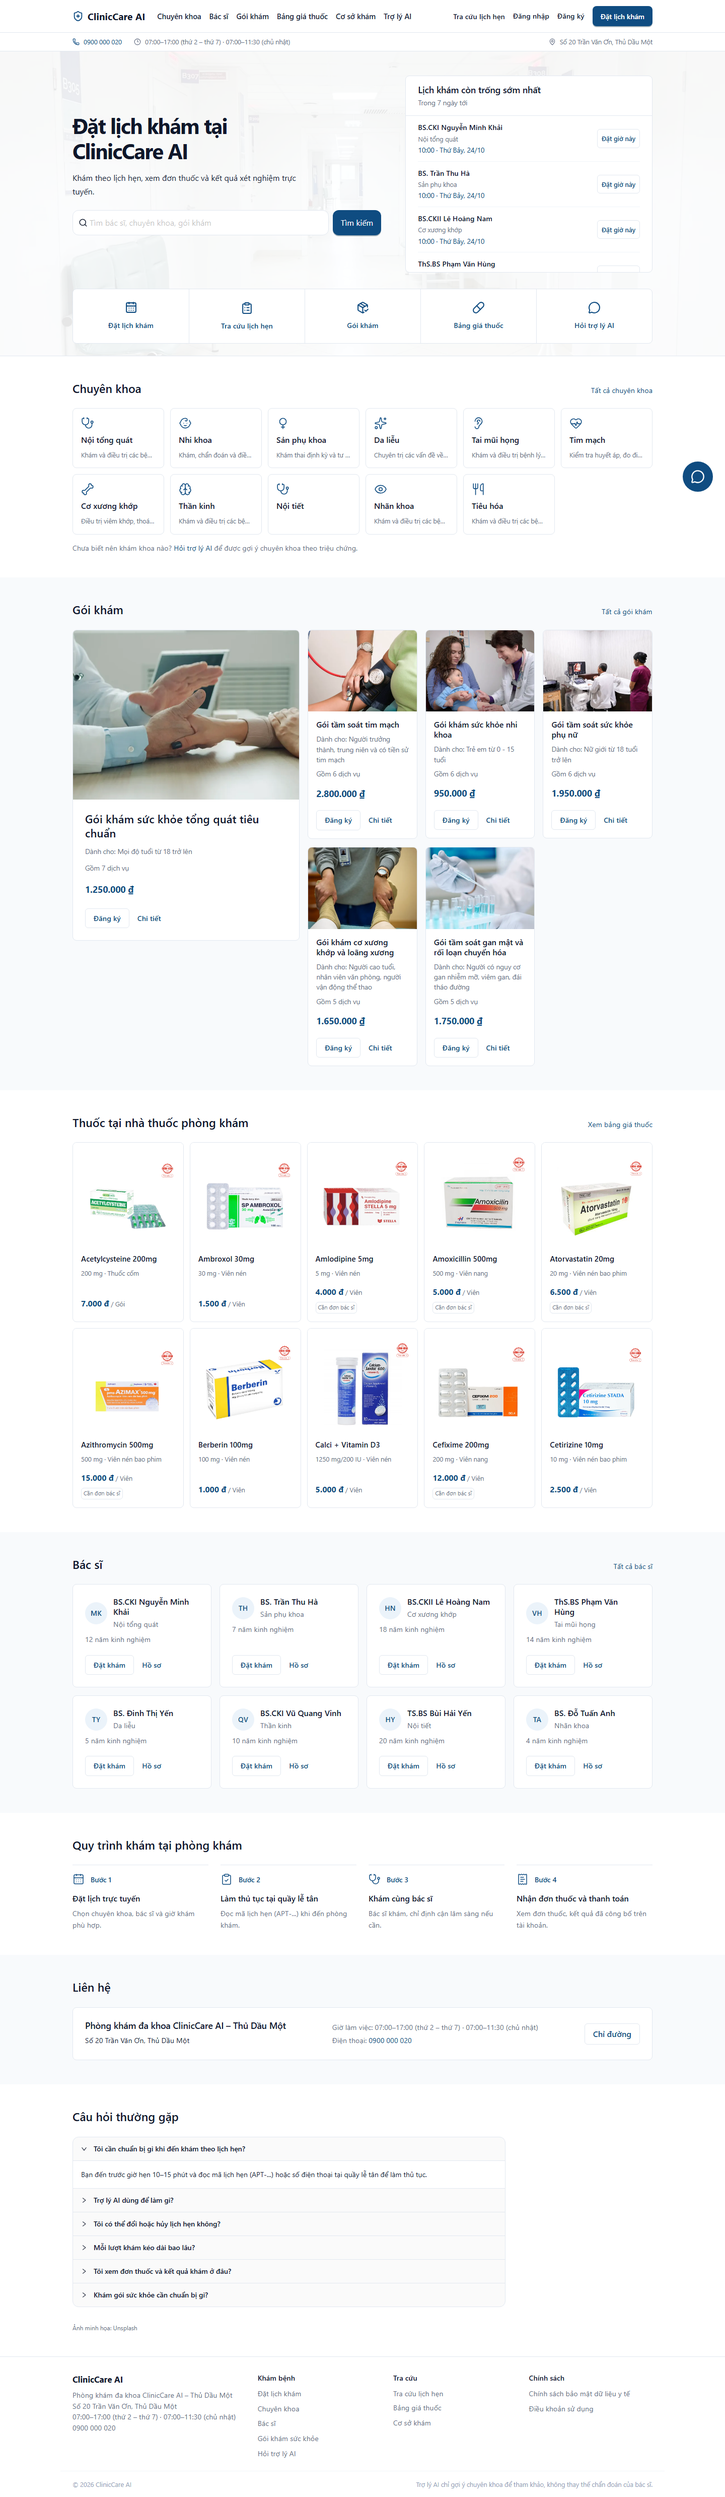
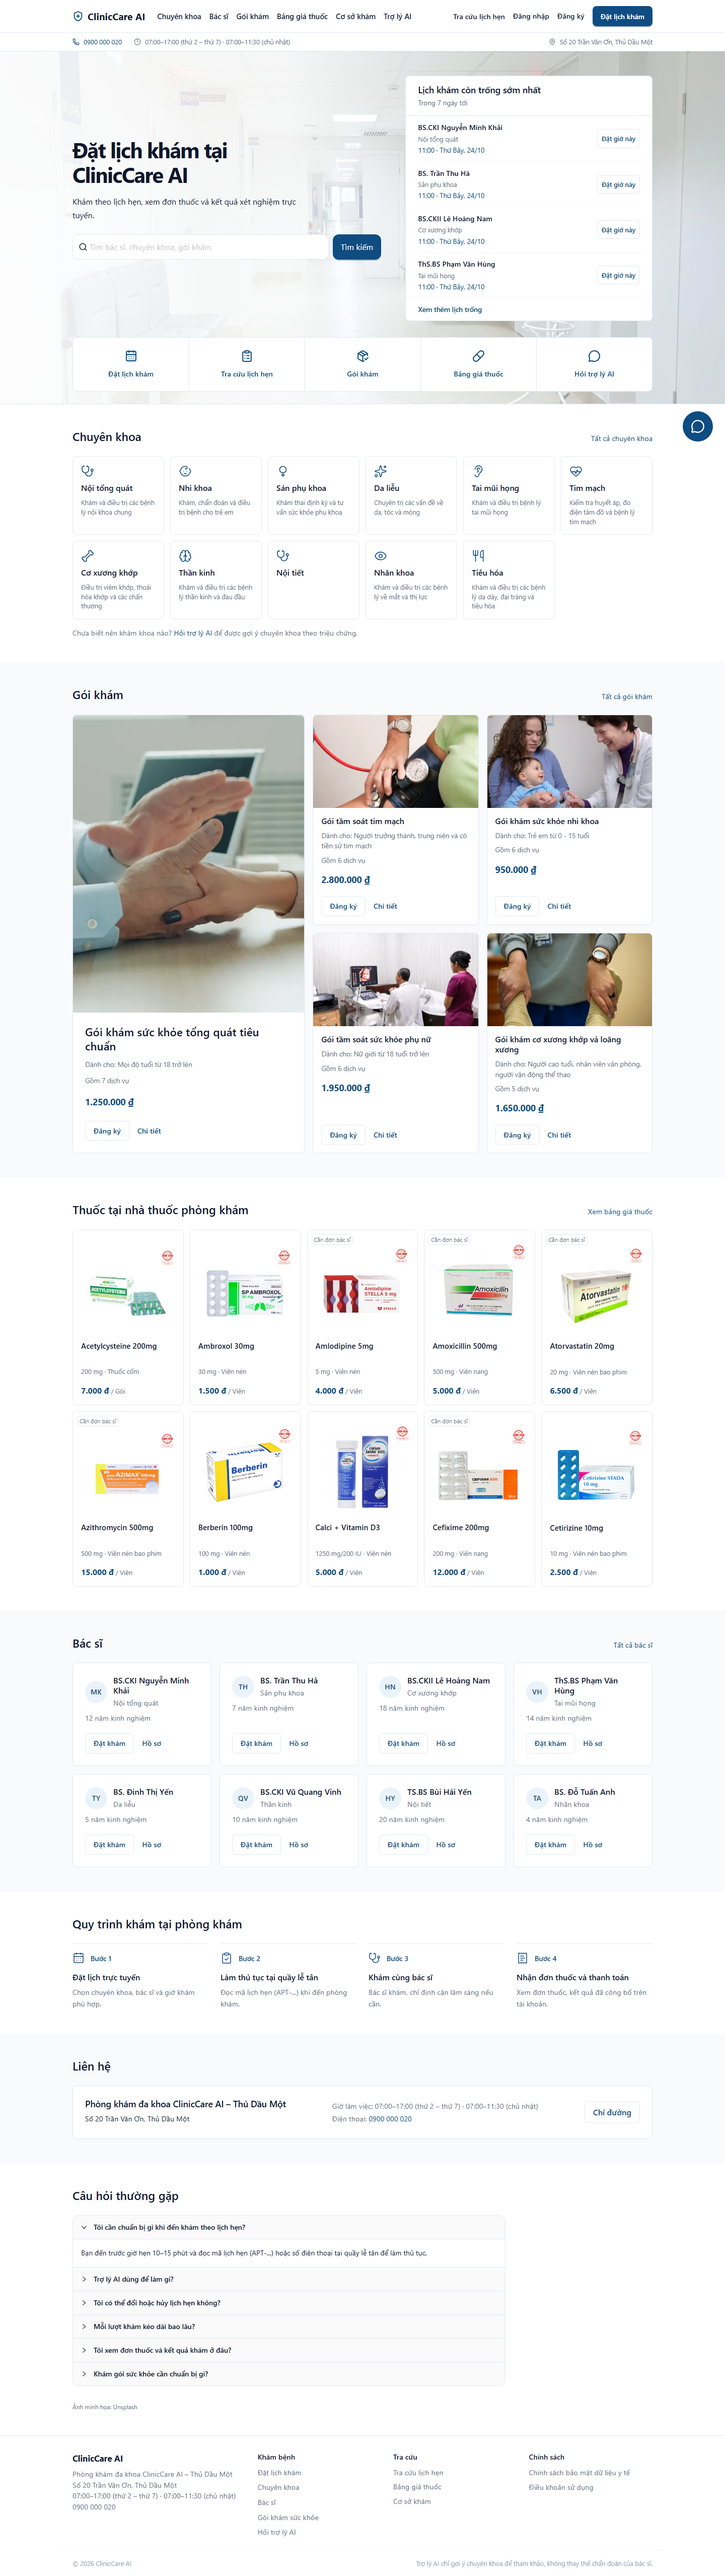
fix(public): landing v2 polish – hero overlay, slot card clipping, package grid, medicine card alignment, mobile doctor carousel

diff --git a/src/frontend/src/test/landingV2Polish.test.tsx b/src/frontend/src/test/landingV2Polish.test.tsx
@@ -1,0 +1,81 @@
+import { cleanup, render, screen, within } from '@testing-library/react';
+import { MemoryRouter } from 'react-router-dom';
+import { afterEach, beforeEach, describe, expect, it, vi } from 'vitest';
+import { EarliestSlots } from '../pages/public/landing/EarliestSlots';
+import { MedicineSection } from '../pages/public/landing/MedicineSection';
+import { PackageSection } from '../pages/public/landing/PackageSection';
+import { SpecialtySection } from '../pages/public/landing/SpecialtySection';
+import type { LandingPackage } from '../pages/public/landing/landingTypes';
+import type { PublicMedicineDto } from '../types';
+import '../theme/browserCompat';
+
+const mocks = vi.hoisted(() => ({ get: vi.fn(), openChat: vi.fn() }));
+vi.mock('../api/axiosClient', () => ({ default: { get: mocks.get } }));
+vi.mock('../contexts/ChatContext', () => ({ useChatContext: () => ({ openChat: mocks.openChat }) }));
+
+const doctors = (count: number) => Array.from({ length: count }, (_, index) => ({ id: index + 1, fullName: `Bác sĩ ${index + 1}` }));
+const mountSlots = (count: number) => render(<MemoryRouter><EarliestSlots doctors={doctors(count)} loading={false} /></MemoryRouter>);
+
+beforeEach(() => {
+    vi.useFakeTimers({ toFake: ['Date'] });
+    vi.setSystemTime(new Date('2026-10-24T01:30:00Z'));
+    mocks.get.mockReset();
+    mocks.get.mockImplementation(async (url: string) => {
+        const id = Number(url.split('/')[2]);
+        return { success: true, data: [{ slotId: id, slotDate: '2026-10-26', startTime: `${String(7 + id).padStart(2, '0')}:00:00`, endTime: '18:00:00' }] };
+    });
+});
+afterEach(() => { cleanup(); vi.useRealTimers(); });
+
+describe('Landing v2 polish', () => {
+    it('shows at most four full slot rows and links to more open slots', async () => {
+        mountSlots(6);
+        await screen.findByText('Bác sĩ 1');
+        const panel = screen.getByRole('complementary', { name: 'Lịch khám còn trống sớm nhất' });
+        expect(within(panel).getAllByRole('listitem')).toHaveLength(4);
+        expect(within(panel).queryByText('Bác sĩ 5')).not.toBeInTheDocument();
+        expect(within(panel).getByRole('link', { name: 'Xem thêm lịch trống' })).toHaveAttribute('href', '/patient/book');
+    });
+
+    it('omits the more-slots link when four or fewer slots exist', async () => {
+        mountSlots(3);
+        await screen.findByText('Bác sĩ 3');
+        expect(screen.getAllByRole('listitem')).toHaveLength(3);
+        expect(screen.queryByRole('link', { name: 'Xem thêm lịch trống' })).not.toBeInTheDocument();
+    });
+
+    it('shows one featured package plus four others and leaves the rest to the all-packages link', () => {
+        const packages = Array.from({ length: 7 }, (_, index) => ({ id: index + 1, name: index === 2 ? 'Gói khám tổng quát' : `Gói ${index + 1}`, price: 100000, includedServices: ['Khám'] })) as LandingPackage[];
+        render(<MemoryRouter><PackageSection packages={packages} /></MemoryRouter>);
+        const section = screen.getByRole('region', { name: 'Gói khám' });
+        const cards = within(section).getAllByRole('article');
+        expect(cards).toHaveLength(5);
+        expect(cards[0]).toHaveTextContent('Gói khám tổng quát');
+        expect(within(section).getByRole('link', { name: 'Tất cả gói khám' })).toHaveAttribute('href', '/health-packages');
+    });
+
+    it('shows short specialty descriptions in full and only the name for long ones', () => {
+        const long = 'Khám và điều trị các bệnh lý tim mạch, tăng huyết áp, rối loạn nhịp tim ở người lớn';
+        render(<MemoryRouter><SpecialtySection specialties={[
+            { id: 1, specialtyName: 'Nhi khoa', description: 'Khám cho trẻ em' },
+            { id: 2, specialtyName: 'Tim mạch', description: long },
+        ]} /></MemoryRouter>);
+        expect(screen.getByRole('link', { name: /Nhi khoa/ })).toHaveTextContent('Khám cho trẻ em');
+        expect(screen.getByRole('link', { name: /Tim mạch/ })).toHaveTextContent(/^Tim mạch$/);
+    });
+
+    it('keeps the price as the last body row and places labels on the image', () => {
+        const medicines = [
+            { id: 1, name: 'Amoxicillin', unit: 'viên', unitPrice: 2500, imageUrl: '/uploads/a.webp', isPrescriptionRequired: true, availability: 'in_stock' },
+            { id: 2, name: 'Paracetamol', unit: 'viên', unitPrice: 1000, isPrescriptionRequired: false, availability: 'in_stock' },
+        ] as PublicMedicineDto[];
+        render(<MemoryRouter><MedicineSection medicines={medicines} /></MemoryRouter>);
+        for (const name of ['Amoxicillin', 'Paracetamol']) {
+            const card = screen.getByRole('link', { name: new RegExp(name) });
+            const body = within(card).getByRole('heading', { level: 3 }).parentElement!;
+            expect(body.lastElementChild).toHaveTextContent(/đ \/ viên$/);
+        }
+        const label = screen.getByText('Cần đơn bác sĩ');
+        expect(label.closest('a')?.querySelector('img')?.parentElement).toContainElement(label);
+    });
+});

diff --git a/src/frontend/src/pages/public/landing/MedicineSection.module.css b/src/frontend/src/pages/public/landing/MedicineSection.module.css
@@ -1,15 +1,16 @@
 .grid { display: grid; grid-template-columns: repeat(5, minmax(0, 1fr)); gap: var(--cc-space-sm); }
 .card { min-width: 0; display: flex; flex-direction: column; overflow: hidden; background: var(--cc-color-public-surface); border: 1px solid var(--cc-color-border); border-radius: var(--cc-radius-md); color: var(--cc-color-text); }
 .card:hover { border-color: var(--cc-color-public-accent); color: var(--cc-color-text); }
-.imageArea { aspect-ratio: 1; background: var(--cc-color-public-surface); padding: var(--cc-space-md); display: flex; align-items: center; justify-content: center; color: var(--cc-color-text-muted); }
+.imageArea { position: relative; aspect-ratio: 1; background: var(--cc-color-public-surface); padding: var(--cc-space-md); display: flex; align-items: center; justify-content: center; color: var(--cc-color-text-muted); }
 .imageArea img { display: block; width: 100%; height: 100%; object-fit: contain; }
 .body { padding: var(--cc-space-md); padding-top: 0; display: flex; flex: 1; flex-direction: column; gap: var(--cc-space-xs); }
 .body h3 { margin: 0; font-weight: 600; font-size: .95rem; line-height: 1.45; color: var(--cc-color-text-dark); }
+.name { display: -webkit-box; -webkit-box-orient: vertical; -webkit-line-clamp: 2; line-clamp: 2; overflow: hidden; min-height: calc(2 * 1.45em); }
 .body p { margin: 0; font-size: .8rem; color: var(--cc-color-text-secondary); }
 .price { margin-top: auto; padding-top: var(--cc-space-xs); font-size: .8rem; color: var(--cc-color-text-secondary); font-variant-numeric: tabular-nums; }
 .price strong { font-size: 1rem; color: var(--cc-color-public-accent); font-weight: 650; }
-.labels { display: flex; flex-wrap: wrap; gap: var(--cc-space-xxs); }
-.label, .unavailable { font-size: .7rem; padding: 2px var(--cc-space-xxs); border-radius: var(--cc-radius-sm); border: 1px solid var(--cc-color-border); color: var(--cc-color-text-secondary); }
+.labels { position: absolute; top: var(--cc-space-xs); left: var(--cc-space-xs); right: var(--cc-space-xs); display: flex; flex-wrap: wrap; gap: var(--cc-space-xxs); }
+.label, .unavailable { background: var(--cc-color-public-surface); font-size: .7rem; line-height: 1.4; white-space: nowrap; padding: 2px var(--cc-space-xxs); border-radius: var(--cc-radius-sm); border: 1px solid var(--cc-color-border); color: var(--cc-color-text-secondary); }
 .unavailable { color: var(--cc-color-danger); border-color: var(--cc-color-danger); }
 @media (max-width: 1000px) and (min-width: 601px) { .grid { grid-template-columns: repeat(4, minmax(0, 1fr)); } }
 @media (max-width: 600px) {

diff --git a/src/frontend/src/pages/public/landing/LandingHero.module.css b/src/frontend/src/pages/public/landing/LandingHero.module.css
@@ -6,7 +6,7 @@
 .hero { position: relative; isolation: isolate; padding: calc(var(--cc-space-xl) * 1.5) 0 var(--cc-space-lg); border-bottom: 1px solid var(--cc-color-border); }
 .heroImage, .overlay { position: absolute; inset: 0; width: 100%; height: 100%; z-index: -1; }
 .heroImage { object-fit: cover; object-position: center 46%; }
-.overlay { background: var(--cc-color-public-surface); opacity: .9; }
+.overlay { background: linear-gradient(90deg, color-mix(in srgb, var(--cc-color-public-surface) 94%, transparent) 0%, color-mix(in srgb, var(--cc-color-public-surface) 86%, transparent) 40%, color-mix(in srgb, var(--cc-color-public-surface) 35%, transparent) 70%, color-mix(in srgb, var(--cc-color-public-surface) 15%, transparent) 100%); }
 .heroGrid { display: grid; grid-template-columns: minmax(0, 1.25fr) minmax(0, 1fr); align-items: center; gap: calc(var(--cc-space-xl) * 1.5); }
 .heroCopy { padding: var(--cc-space-lg) 0; min-width: 0; }
 .heroCopy h1 { max-width: 540px; margin: 0; font-size: clamp(1.9rem, 3vw, 2.6rem); letter-spacing: -.035em; line-height: 1.18; font-weight: 650; color: var(--cc-color-text-dark); }
@@ -18,7 +18,10 @@
 .quickLinks > * + * { border-left: 1px solid var(--cc-color-border); }
 .quickLinks button { border: 0; border-left: 1px solid var(--cc-color-border); border-radius: 0; background: transparent; cursor: pointer; font-family: inherit; }
 .quickLinks > *:hover { background: var(--cc-color-public-bg); color: var(--cc-color-public-accent-hover); }
-@media (max-width: 900px) { .heroGrid { grid-template-columns: 1fr; gap: var(--cc-space-lg); } .heroCopy { padding: 0; } .heroCopy h1 { max-width: 620px; } .hero { padding-top: var(--cc-space-xl); } .infoContent { gap: var(--cc-space-md); } }
+@media (max-width: 900px) {
+    .overlay { background: linear-gradient(180deg, color-mix(in srgb, var(--cc-color-public-surface) 72%, transparent) 0%, color-mix(in srgb, var(--cc-color-public-surface) 82%, transparent) 260px, var(--cc-color-public-surface) 420px); }
+    .heroGrid { grid-template-columns: 1fr; gap: var(--cc-space-lg); } .heroCopy { padding: 0; } .heroCopy h1 { max-width: 620px; } .hero { padding-top: var(--cc-space-xl); } .infoContent { gap: var(--cc-space-md); }
+}
 @media (max-width: 600px) {
     .infoContent { justify-content: space-between; flex-wrap: wrap; gap: var(--cc-space-xxs) var(--cc-space-sm); padding-block: var(--cc-space-xs); font-size: .75rem; }
     .infoContent .address { display: none; }

diff --git a/src/frontend/src/pages/public/landing/PackageSection.module.css b/src/frontend/src/pages/public/landing/PackageSection.module.css
@@ -1,13 +1,24 @@
-.grid { display: grid; grid-template-columns: repeat(5, minmax(0, 1fr)); gap: var(--cc-space-md); align-items: start; }
+.grid { display: grid; grid-template-columns: minmax(0, 1.4fr) repeat(2, minmax(0, 1fr)); gap: var(--cc-space-md); }
 .card { min-width: 0; display: flex; flex-direction: column; border: 1px solid var(--cc-color-border); border-radius: var(--cc-radius-md); overflow: hidden; background: var(--cc-color-public-surface); }
-.image { display: block; width: 100%; height: auto; aspect-ratio: 4 / 3; object-fit: cover; }
-.featured { grid-column: span 2; grid-row: span 2; }
+.image { display: block; width: 100%; height: auto; aspect-ratio: 16 / 9; object-fit: cover; }
+.featured { grid-row: span 2; }
+.featured .image { flex: 1 1 0; min-height: 240px; aspect-ratio: auto; }
 .body { display: flex; flex: 1; flex-direction: column; gap: var(--cc-space-xs); padding: var(--cc-space-md); }
+.featured .body { flex: 0 0 auto; padding: var(--cc-space-lg); gap: var(--cc-space-sm); }
 .body h3 { margin: 0; color: var(--cc-color-text-dark); font-size: 1rem; font-weight: 600; }
 .body p { margin: 0; font-size: .85rem; }
-.featured .body { padding: var(--cc-space-lg); gap: var(--cc-space-sm); }
+.body a { white-space: nowrap; }
 .featured h3 { font-size: 1.4rem; }
 .price { margin-top: var(--cc-space-xs); font-weight: 650; font-size: 1.1rem; color: var(--cc-color-public-accent); font-variant-numeric: tabular-nums; }
-@media (max-width: 1000px) { .grid { grid-template-columns: repeat(3, minmax(0, 1fr)); } }
-@media (max-width: 700px) { .grid { grid-template-columns: repeat(2, minmax(0, 1fr)); gap: var(--cc-space-sm); } .featured { grid-column: span 2; grid-row: auto; } .body { padding: var(--cc-space-sm); } }
-@media (max-width: 420px) { .body h3 { font-size: .9rem; } .body p { font-size: .8rem; } .body a { padding-inline: var(--cc-space-xs); } }
+@media (max-width: 1000px) {
+    .grid { grid-template-columns: repeat(2, minmax(0, 1fr)); }
+    .featured { grid-column: span 2; grid-row: auto; }
+    .featured .image { flex: none; min-height: 0; aspect-ratio: 16 / 7; }
+}
+@media (max-width: 700px) { .grid { gap: var(--cc-space-sm); } .body { padding: var(--cc-space-sm); } .featured .image { aspect-ratio: 16 / 9; } }
+@media (max-width: 480px) {
+    .grid { grid-template-columns: 1fr; }
+    .featured { grid-column: auto; }
+    .featured .body { padding: var(--cc-space-md); }
+    .featured h3 { font-size: 1.15rem; }
+}

diff --git a/src/frontend/src/pages/public/landing/MedicineSection.tsx b/src/frontend/src/pages/public/landing/MedicineSection.tsx
@@ -18,17 +18,18 @@ export function MedicineSection({ medicines }: { medicines: PublicMedicineDto[] 
             <div className={styles.grid}>{featured.map(medicine => <Link key={medicine.id} to={`/medicines/${medicine.id}`} className={styles.card}>
                 <div className={styles.imageArea}>{medicine.imageUrl
                     ? <img src={medicineImageUrl(medicine.imageUrl)} alt={`Thuốc ${medicine.name}`} loading="lazy" width={240} height={240} />
-                    : <Pill size={36} strokeWidth={1} aria-hidden="true" />}</div>
+                    : <Pill size={36} strokeWidth={1} aria-hidden="true" />}
+                    {(medicine.isPrescriptionRequired || medicine.availability === 'out_of_stock') && <div className={styles.labels}>
+                        {medicine.isPrescriptionRequired && <span className={styles.label}>Cần đơn bác sĩ</span>}
+                        {medicine.availability === 'out_of_stock' && <span className={styles.unavailable}>Hết hàng</span>}
+                    </div>}
+                </div>
                 <div className={styles.body}>
-                    <h3>{medicine.name}</h3>
+                    <h3 className={styles.name}>{medicine.name}</h3>
                     {(medicine.strength || medicine.dosageForm) && <p>{[medicine.strength, medicine.dosageForm].filter(Boolean).join(' · ')}</p>}
                     <div className={styles.price}>{medicine.unitPrice != null
                         ? <><strong>{new Intl.NumberFormat('vi-VN').format(medicine.unitPrice)} đ</strong><span> / {medicine.unit}</span></>
                         : <span>Liên hệ nhà thuốc</span>}</div>
-                    <div className={styles.labels}>
-                        {medicine.isPrescriptionRequired && <span className={styles.label}>Cần đơn bác sĩ</span>}
-                        {medicine.availability === 'out_of_stock' && <span className={styles.unavailable}>Hết hàng</span>}
-                    </div>
                 </div>
             </Link>)}</div>
         </div>

diff --git a/src/frontend/src/pages/public/landing/EarliestSlots.tsx b/src/frontend/src/pages/public/landing/EarliestSlots.tsx
@@ -8,6 +8,8 @@ import { slotLabel, slotRange, slotTimestamp } from './slotHelpers';
 import type { DoctorSlot, LandingDoctor, LandingSlot } from './landingTypes';
 import styles from './EarliestSlots.module.css';
 
+const VISIBLE_SLOTS = 4;
+
 export function EarliestSlots({ doctors, loading }: { doctors: LandingDoctor[]; loading: boolean }) {
     const [result, setResult] = useState<{ doctors: LandingDoctor[]; items: DoctorSlot[] }>();
 
@@ -38,7 +40,7 @@ export function EarliestSlots({ doctors, loading }: { doctors: LandingDoctor[]; 
                 <p>Trong 7 ngày tới</p>
             </div>
             {busy ? <div className={styles.skeleton} role="status" aria-label="Đang tải lịch trống"><Skeleton active paragraph={{ rows: 4 }} title={false} /></div>
-                : result?.items.length ? <ul className={styles.slots}>{result.items.map(({ doctor, slot }) => {
+                : result?.items.length ? <><ul className={styles.slots}>{result.items.slice(0, VISIBLE_SLOTS).map(({ doctor, slot }) => {
                     const params = new URLSearchParams({ doctorId: String(doctor.id), date: slot.slotDate });
                     if (doctor.specialtyId) params.set('specialtyId', String(doctor.specialtyId));
                     return <li key={doctor.id} className={styles.slot}>
@@ -48,7 +50,8 @@ export function EarliestSlots({ doctors, loading }: { doctors: LandingDoctor[]; 
                         </div>
                         <Link to={`/patient/book?${params}`}>Đặt giờ này</Link>
                     </li>;
-                })}</ul> : <div className={styles.empty}>
+                })}</ul>
+                {result.items.length > VISIBLE_SLOTS && <Link className={styles.more} to="/patient/book">Xem thêm lịch trống</Link>}</> : <div className={styles.empty}>
                     <p>Hiện chưa có lịch trống trong 7 ngày tới</p>
                     <Link to="/patient/book">Đặt lịch khám</Link>
                 </div>}

diff --git a/src/frontend/src/pages/public/landing/EarliestSlots.module.css b/src/frontend/src/pages/public/landing/EarliestSlots.module.css
@@ -2,7 +2,7 @@
 .heading { padding: var(--cc-space-md) var(--cc-space-lg); border-bottom: 1px solid var(--cc-color-border); }
 .heading h2 { margin: 0; color: var(--cc-color-text-dark); font-size: 1.1rem; font-weight: 600; }
 .heading p { margin: var(--cc-space-xxs) 0 0; font-size: .85rem; color: var(--cc-color-text-secondary); }
-.slots { list-style: none; margin: 0; padding: 0 var(--cc-space-lg); max-height: 310px; overflow-y: auto; }
+.slots { list-style: none; margin: 0; padding: 0 var(--cc-space-lg); }
 .slot { display: flex; align-items: center; justify-content: space-between; gap: var(--cc-space-sm); padding: var(--cc-space-sm) 0; }
 .slot + .slot { border-top: 1px solid var(--cc-color-border-light); }
 .slot > div { display: flex; flex-direction: column; gap: 2px; min-width: 0; }
@@ -11,6 +11,7 @@
 .slot time { font-size: .85rem; font-variant-numeric: tabular-nums; color: var(--cc-color-public-accent); }
 .slot a { flex-shrink: 0; border: 1px solid var(--cc-color-border); border-radius: var(--cc-radius-sm); padding: var(--cc-space-xs); font-size: .8rem; font-weight: 600; }
 .slot a:hover { border-color: var(--cc-color-public-accent); }
+.more { display: block; padding: var(--cc-space-sm) var(--cc-space-lg); border-top: 1px solid var(--cc-color-border-light); font-size: .85rem; font-weight: 600; }
 .empty, .skeleton { padding: var(--cc-space-lg); }
 .empty p { margin: 0 0 var(--cc-space-md); color: var(--cc-color-text-secondary); }
-@media (max-width: 600px) { .heading { padding: var(--cc-space-md); } .slots { padding: 0 var(--cc-space-md); } }
+@media (max-width: 600px) { .heading { padding: var(--cc-space-md); } .slots { padding: 0 var(--cc-space-md); } .more { padding-inline: var(--cc-space-md); } }

diff --git a/src/frontend/src/pages/public/landing/SpecialtySection.module.css b/src/frontend/src/pages/public/landing/SpecialtySection.module.css
@@ -1,8 +1,8 @@
-.grid { display: grid; grid-template-columns: repeat(6, minmax(0, 1fr)); gap: var(--cc-space-sm); }
+.grid { display: grid; grid-template-columns: repeat(6, minmax(0, 1fr)); grid-auto-rows: 1fr; gap: var(--cc-space-sm); }
 .item { display: flex; flex-direction: column; align-items: flex-start; gap: var(--cc-space-xs); min-width: 0; padding: var(--cc-space-md); background: var(--cc-color-public-surface); border: 1px solid var(--cc-color-border); border-radius: var(--cc-radius-md); color: var(--cc-color-public-accent); }
 .item:hover { border-color: var(--cc-color-public-accent); }
 .name { font-weight: 600; color: var(--cc-color-text-dark); }
-.description { font-size: .8rem; color: var(--cc-color-text-secondary); overflow: hidden; text-overflow: ellipsis; white-space: nowrap; max-width: 100%; }
+.description { font-size: .8rem; color: var(--cc-color-text-secondary); line-height: 1.45; overflow-wrap: anywhere; }
 .aiLine { margin: var(--cc-space-md) 0 0; color: var(--cc-color-text-secondary); font-size: .9rem; }
 @media (max-width: 1000px) { .grid { grid-template-columns: repeat(4, minmax(0, 1fr)); } }
 @media (max-width: 600px) { .grid { grid-template-columns: repeat(2, minmax(0, 1fr)); } }

diff --git a/src/frontend/src/pages/public/landing/DoctorSection.module.css b/src/frontend/src/pages/public/landing/DoctorSection.module.css
@@ -2,5 +2,8 @@
 .heading { display: flex; align-items: center; gap: var(--cc-space-sm); min-width: 0; }
 .heading p { margin-top: var(--cc-space-xxs); }
 .avatar { width: 44px; height: 44px; flex-shrink: 0; border-radius: 50%; display: flex; align-items: center; justify-content: center; background: var(--cc-color-public-accent-soft); color: var(--cc-color-public-accent); font-weight: 600; font-size: .9rem; }
-@media (max-width: 1000px) { .grid { grid-template-columns: repeat(2, minmax(0, 1fr)); } }
-@media (max-width: 600px) { .grid { grid-template-columns: 1fr; gap: var(--cc-space-sm); } }
+@media (max-width: 1000px) and (min-width: 769px) { .grid { grid-template-columns: repeat(2, minmax(0, 1fr)); } }
+@media (max-width: 768px) {
+    .grid { display: flex; gap: var(--cc-space-sm); overflow-x: auto; scroll-snap-type: x mandatory; padding-bottom: var(--cc-space-sm); }
+    .grid > * { flex: 0 0 80%; scroll-snap-align: start; }
+}

diff --git a/src/frontend/src/pages/public/landing/PackageSection.tsx b/src/frontend/src/pages/public/landing/PackageSection.tsx
@@ -8,7 +8,7 @@ import styles from './PackageSection.module.css';
 export function PackageSection({ packages }: { packages: LandingPackage[] }) {
     if (!packages.length) return null;
     const featured = packages.find(pkg => pkg.name.toLocaleLowerCase('vi-VN').includes('tổng quát')) ?? packages[0];
-    const ordered = [featured, ...packages.filter(pkg => pkg.id !== featured.id)].slice(0, 6);
+    const ordered = [featured, ...packages.filter(pkg => pkg.id !== featured.id)].slice(0, 5);
     return <section id="packages" className={shared.section} aria-labelledby="landing-packages-title">
         <div className={shared.container}>
             <div className={shared.sectionHeader}><h2 id="landing-packages-title">Gói khám</h2><Link to="/health-packages">Tất cả gói khám</Link></div>
